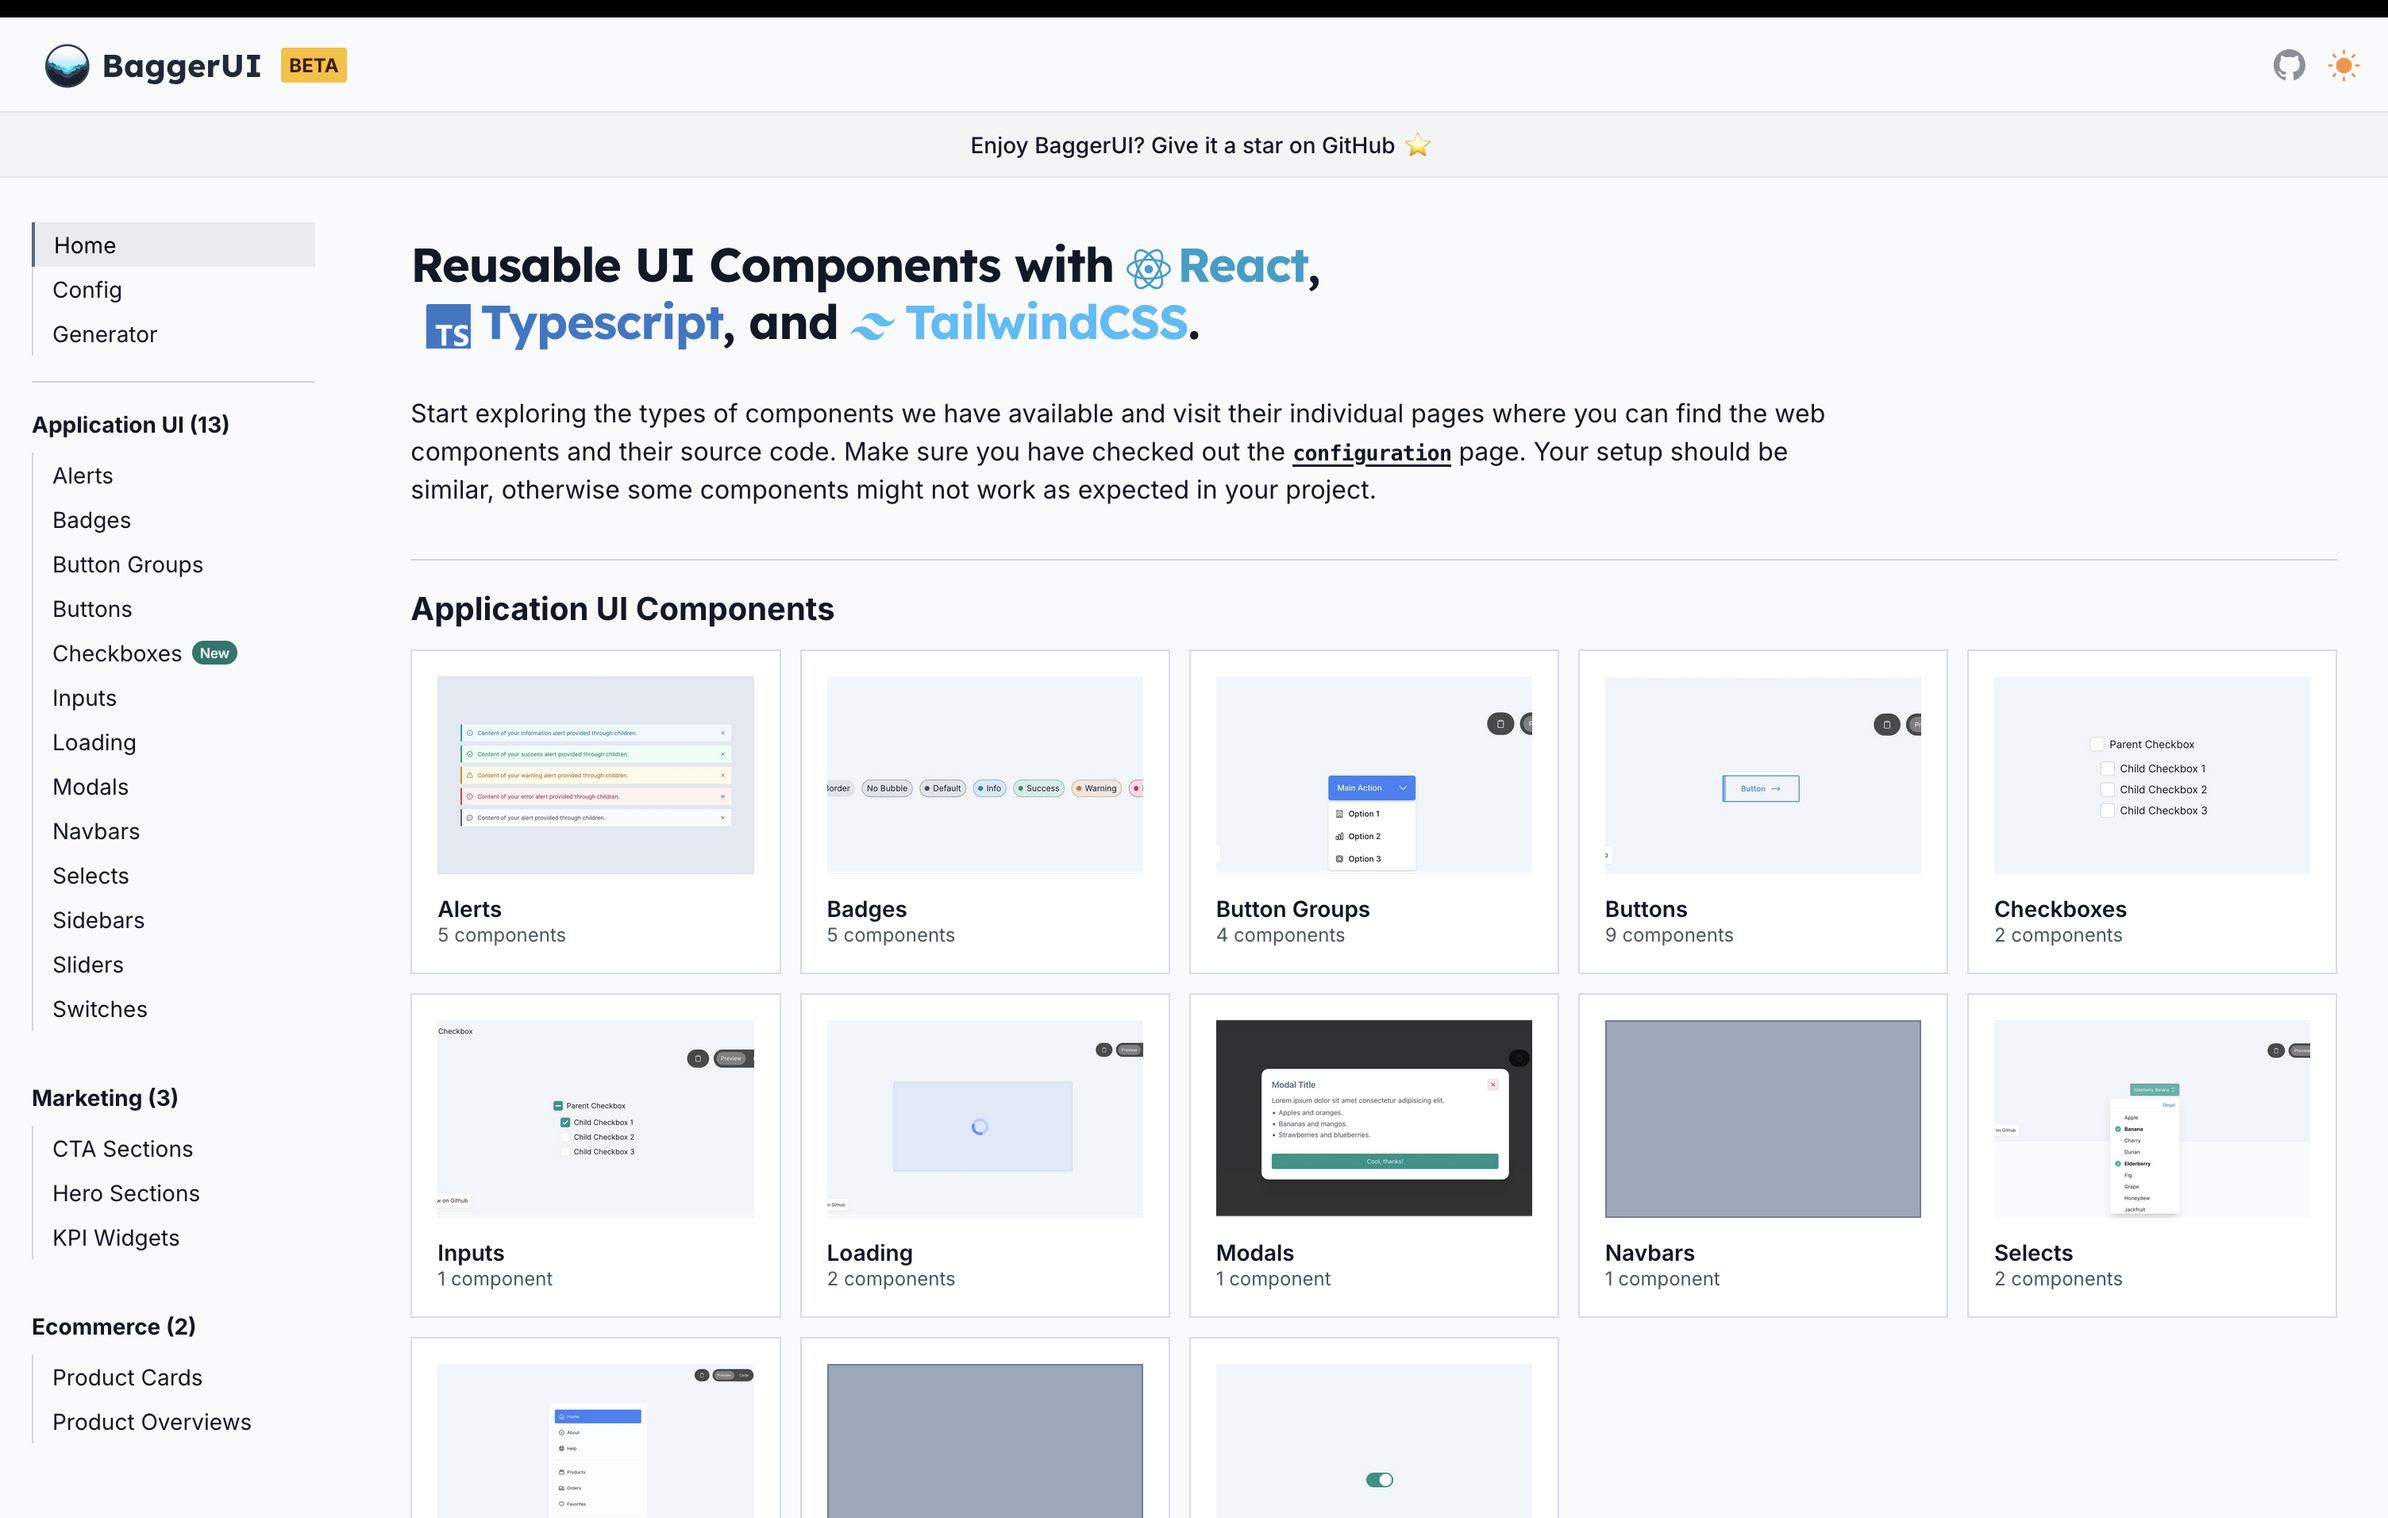
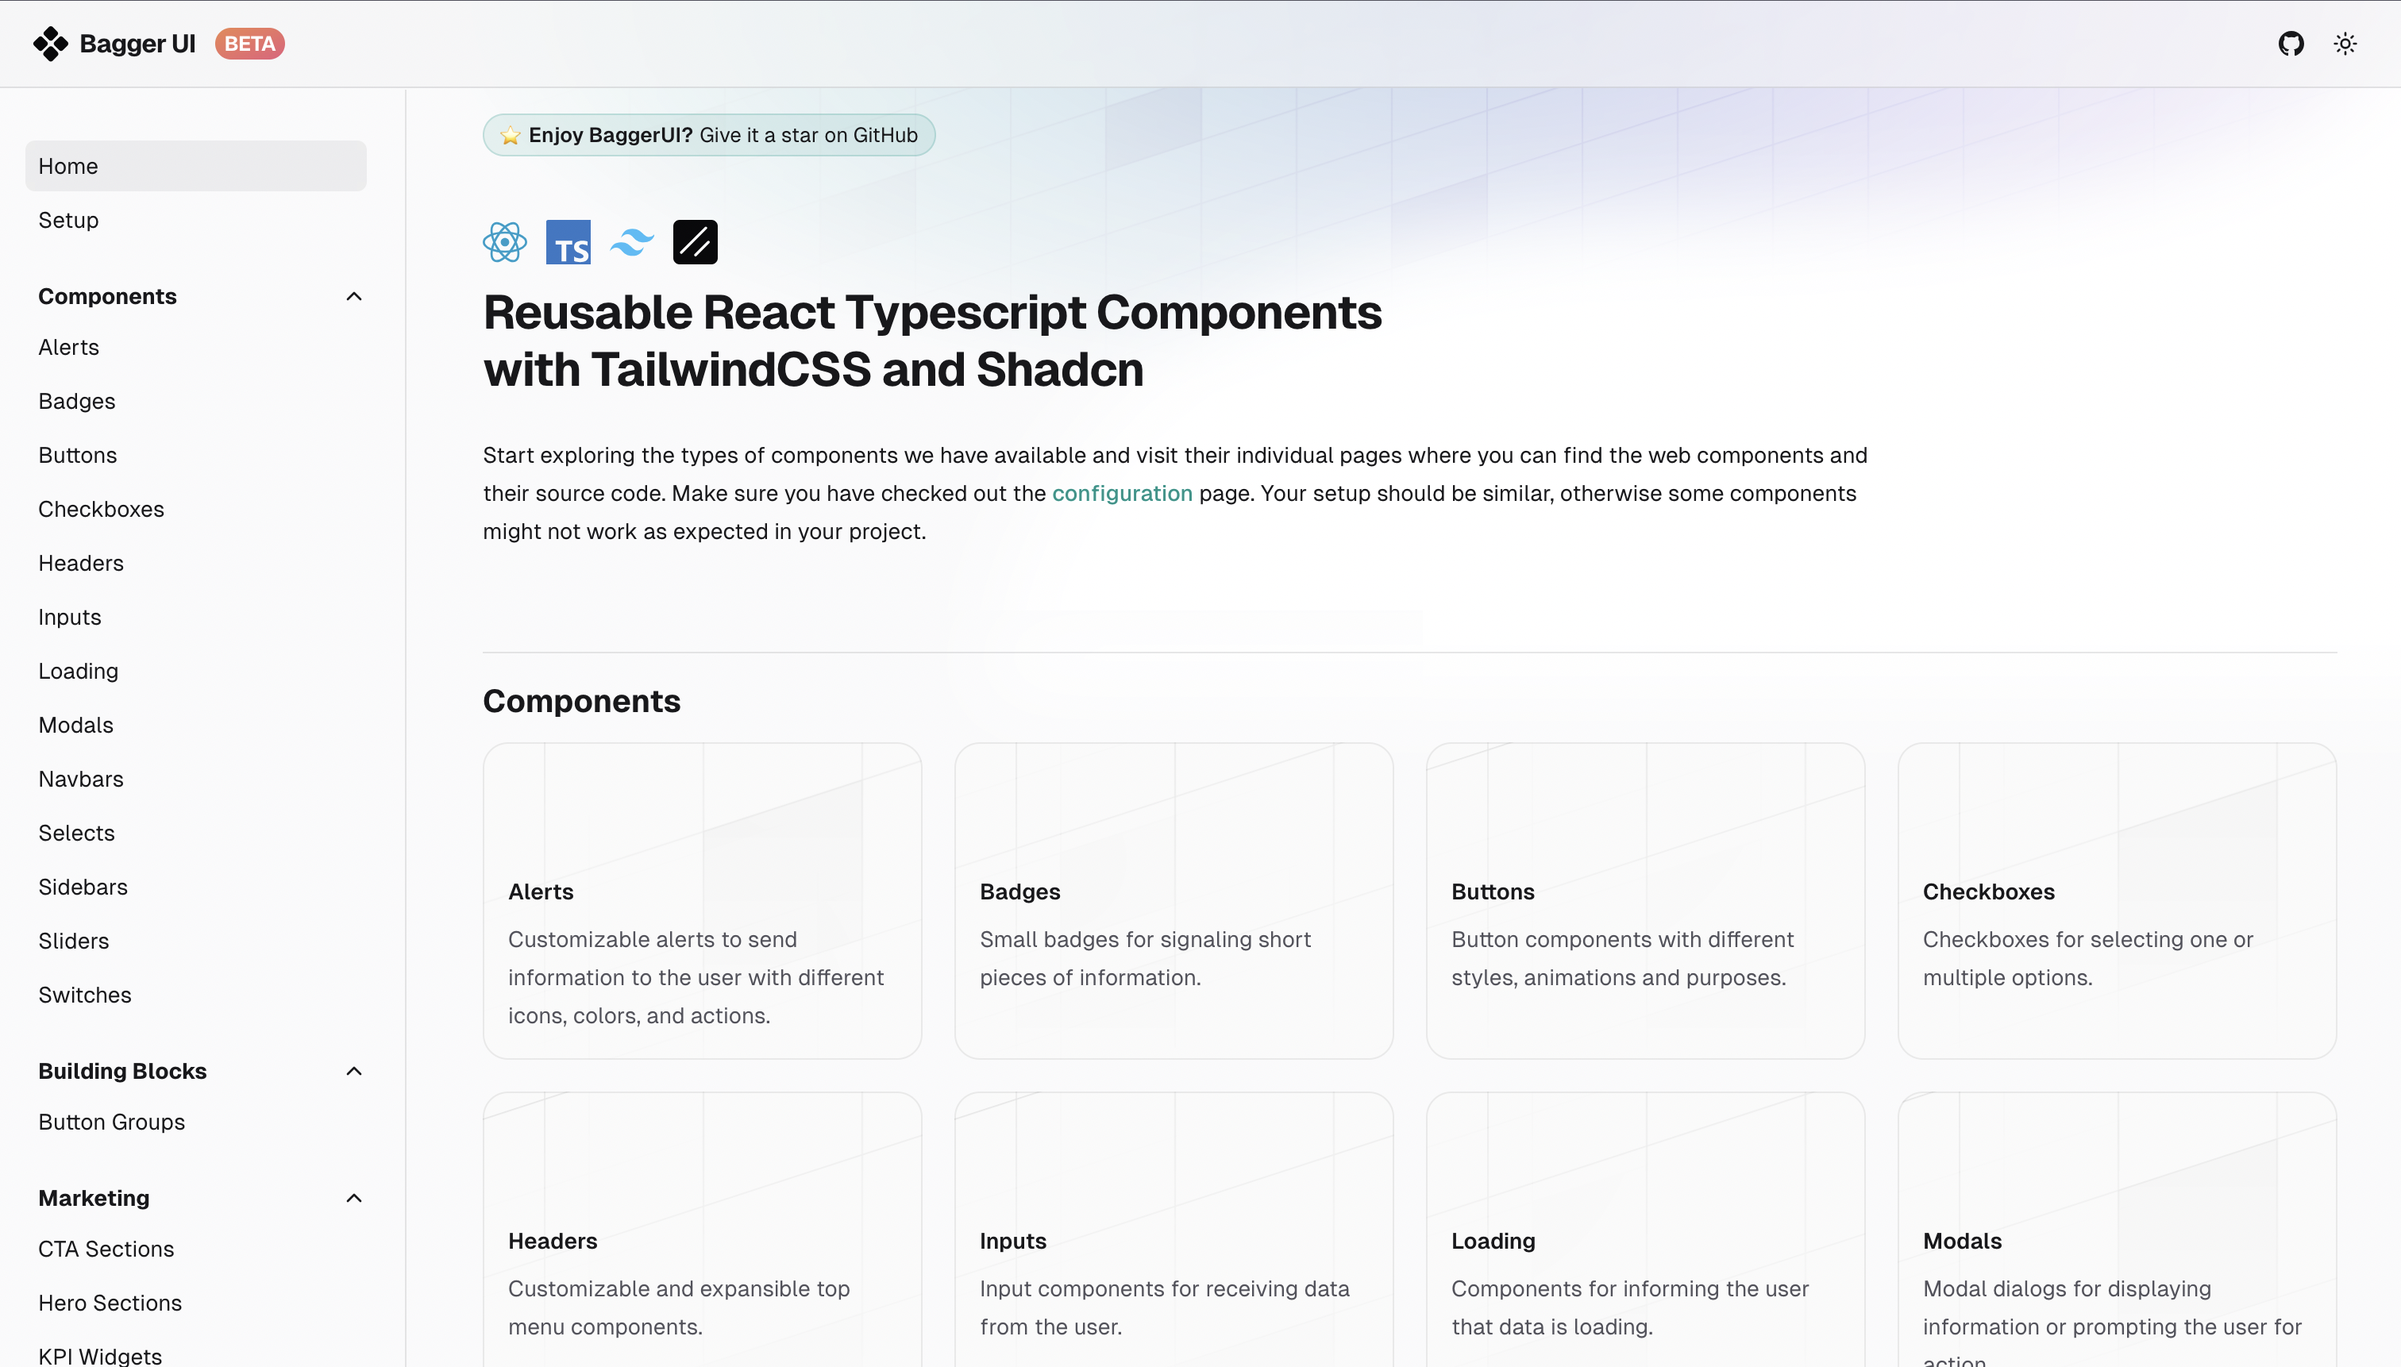
og png

diff --git a/src/components/ComponentSample.tsx b/src/components/ComponentSample.tsx
@@ -53,7 +53,7 @@ export function ComponentSample({ name }: { name: string }) {
         {steps.map((step) => (
           <li key={step.number} className="flex gap-3">
             <div className="flex flex-col items-center gap-1.5">
-              <span className="mt-1 flex size-5 min-w-5 items-center justify-center rounded-full border border-zinc-800 bg-zinc-800 text-center font-mono text-xs font-bold text-white">
+              <span className="mt-1 flex size-5 min-w-5 items-center justify-center rounded-full border border-zinc-800 bg-zinc-800 text-center font-mono text-xs font-bold text-white dark:bg-zinc-100 dark:text-zinc-800">
                 {step.number}
               </span>
               <span className="h-full w-[1px] bg-zinc-300 dark:bg-zinc-800"></span>

diff --git a/src/utils/config.ts b/src/utils/config.ts
@@ -2,7 +2,7 @@ export const siteConfig = {
   name: 'BaggerUI',
   url: 'https://bagger-ui.vercel.app',
   ogImage: 'https://bagger-ui.vercel.app/og.png',
-  description: 'Reusable UI Components for React with Typescript, and TailwindCSS. Open Source and Customizable.',
+  description: 'Reusable React Typescript Components with TailwindCSS and Shadcn',
   links: {
     twitter: 'https://twitter.com/kikogoncalves_',
     github: 'https://github.com/kiko-g/bagger-ui',

diff --git a/src/app/layout.tsx b/src/app/layout.tsx
@@ -14,7 +14,7 @@ export const metadata: Metadata = {
   },
   metadataBase: new URL(siteConfig.url),
   description: siteConfig.description,
-  keywords: ['Next.js', 'React', 'Typescript', 'Tailwind CSS', 'Headless UI'],
+  keywords: ['Next.js', 'React', 'Typescript', 'Tailwind CSS', 'Shadcn UI'],
   authors: [
     {
       name: 'Francisco Gonçalves',
